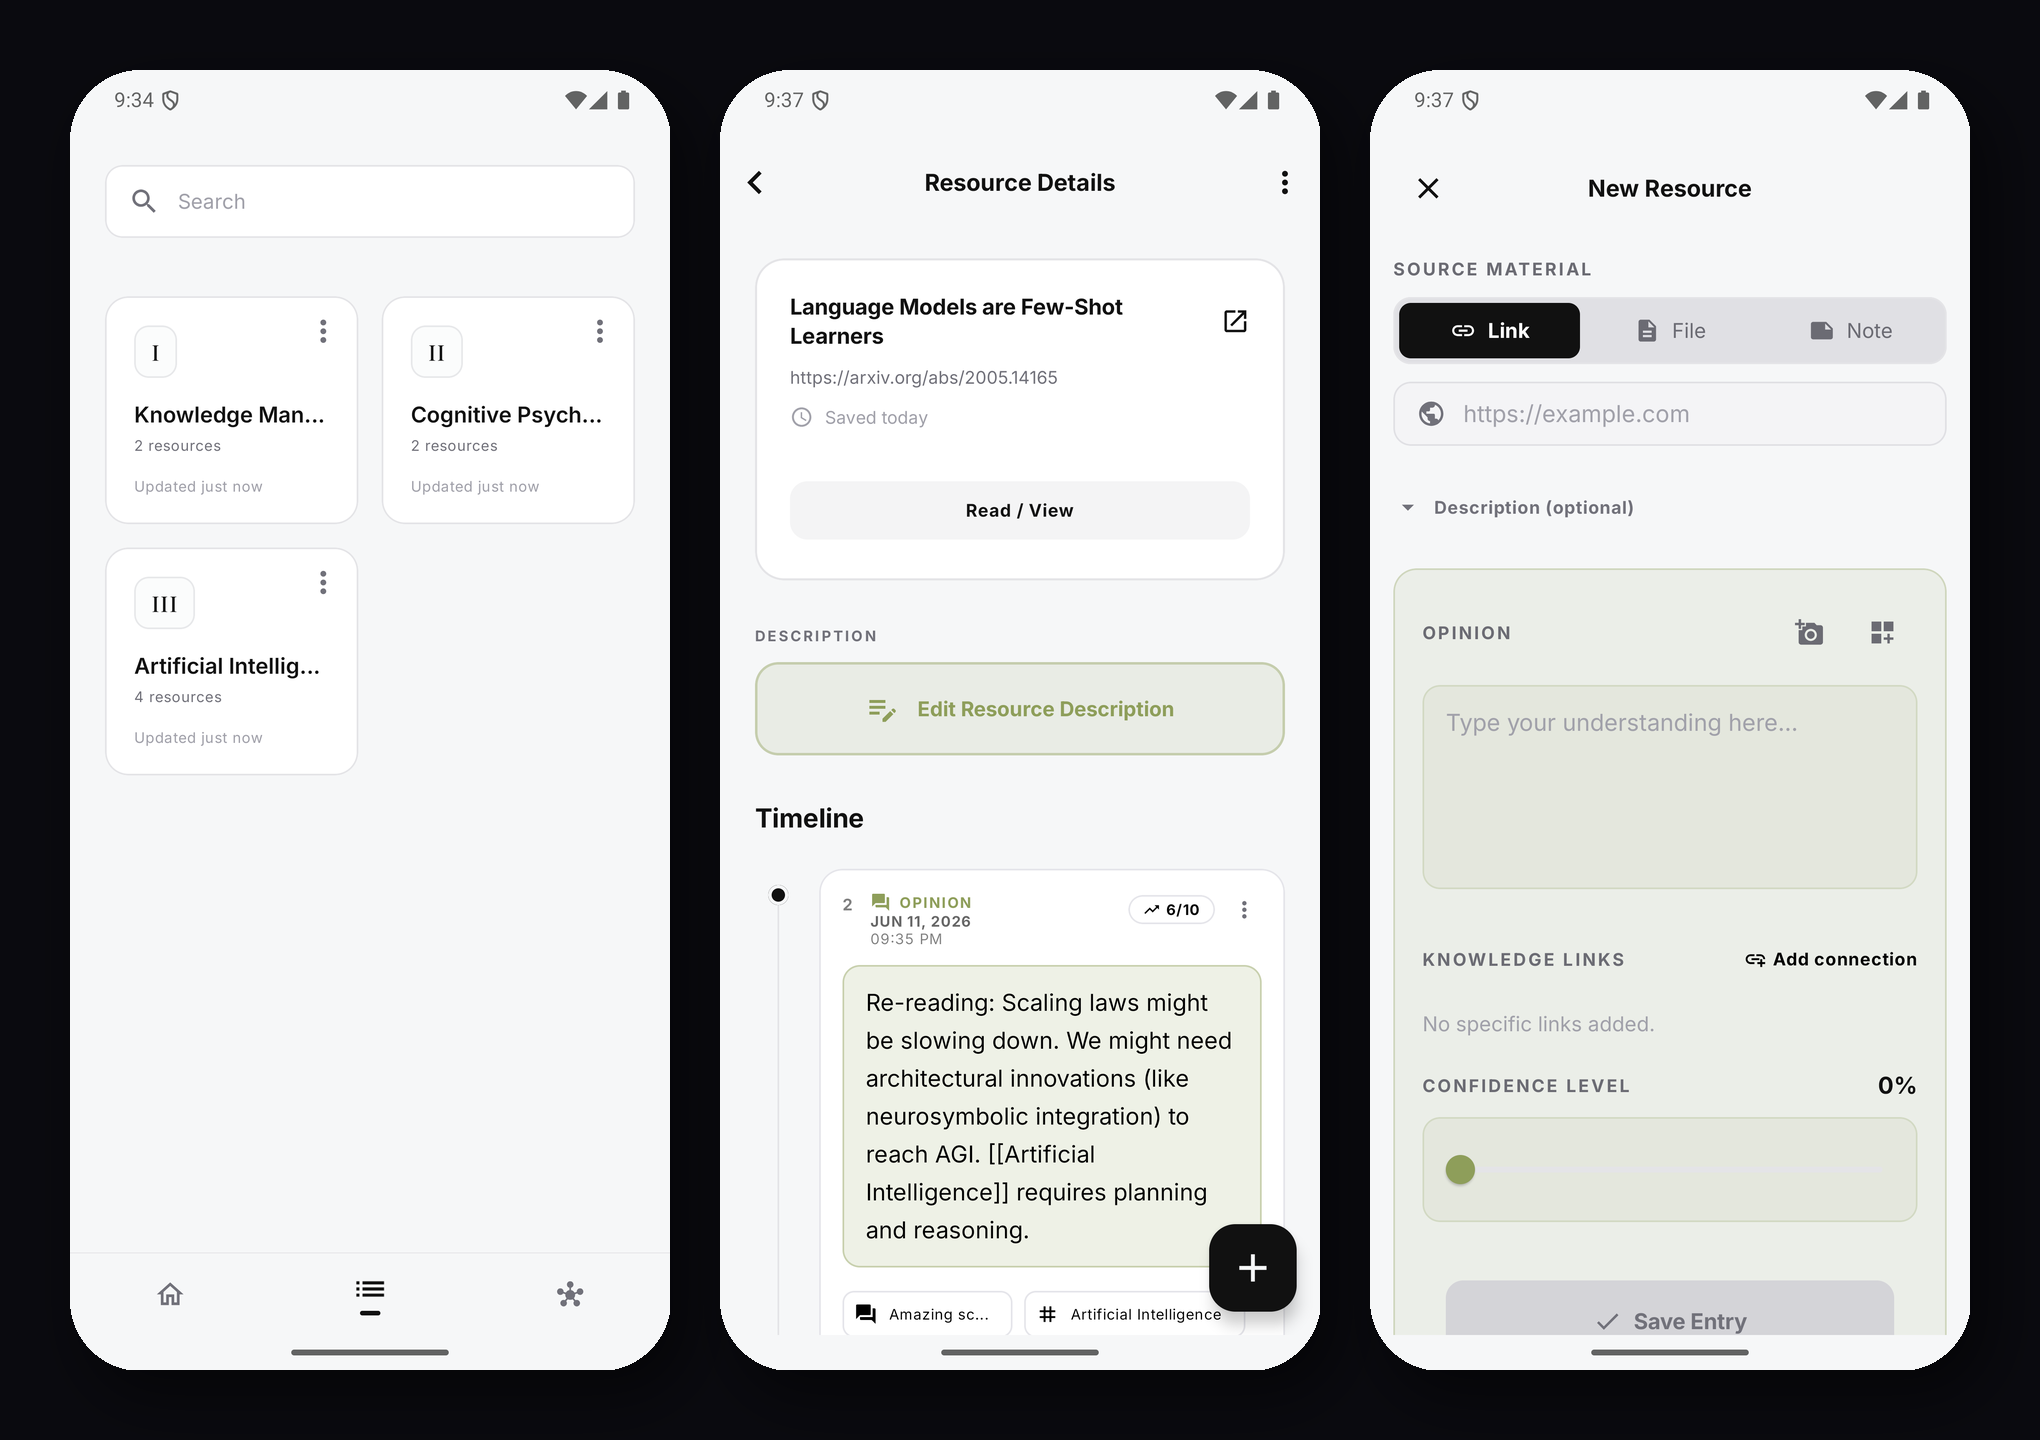
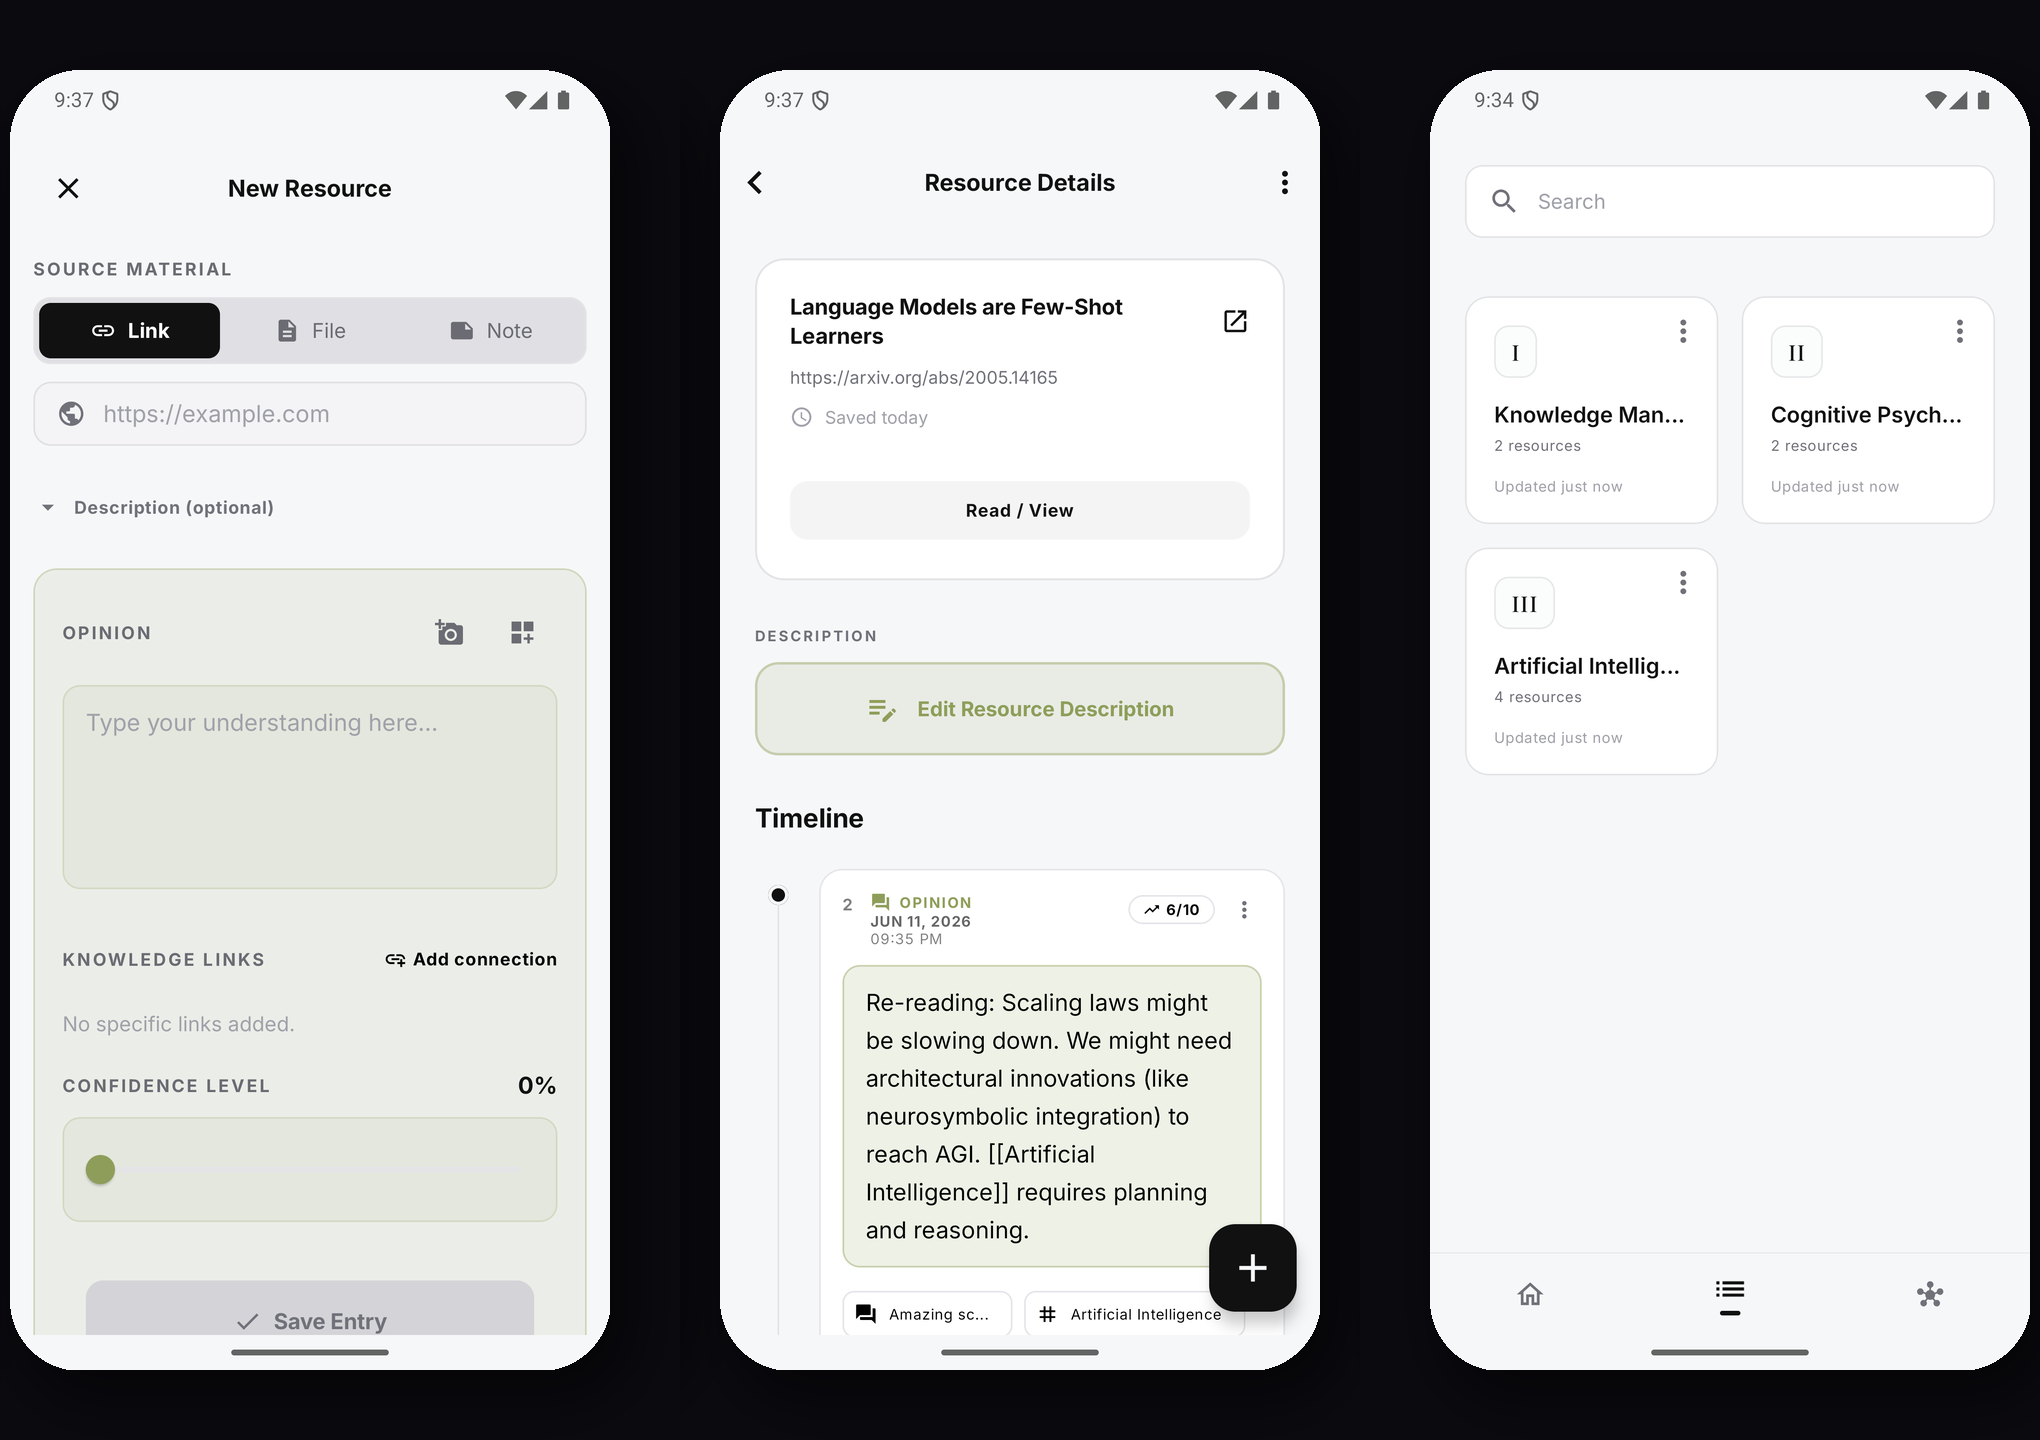
docs: refresh README layout and update hero assets
*   **README.md**:
    *   Centers the header content, including the app logo and badges.
    *   Enlarges the logo and adds a border radius for better visual consistency with the app icon.
    *   Adjusts the height of the F-Droid badge and refines vertical spacing between sections.
*   **Assets**: Updates `feature_strip.png` infographic.

diff --git a/README.md b/README.md
@@ -1,4 +1,8 @@
-# <img src="androidApp/src/main/res/drawable/app_logo.png" width="40" height="40" valign="middle" alt="Relatrix Logo" /> 𝗥𝗲𝗹𝗮𝘁𝗿𝗶𝘅
+<div align="center">
+
+<img src="androidApp/src/main/res/drawable/app_logo.png" width="140" height="140" alt="Relatrix Logo" style="border-radius: 20%; margin-bottom: 20px;" />
+
+# 𝗥𝗲𝗹𝗮𝘁𝗿𝗶𝘅
 
 **An active knowledge‑management and multi‑modal note‑taking platform for deep thinkers.**
 
@@ -7,9 +11,10 @@
 <br/>
 
 <a href="https://f-droid.org/packages/com.saadibra.graymatter">
-  <img src="https://fdroid.gitlab.io/artwork/badge/get-it-on.png" alt="Get it on F-Droid" height="70">
+  <img src="https://fdroid.gitlab.io/artwork/badge/get-it-on.png" alt="Get it on F-Droid" height="60">
 </a>
 
+<br/>
 <br/>
 
 [![Platform](https://img.shields.io/badge/Platform-Android-3DDC84?style=for-the-badge&logo=android&logoColor=white)](https://developer.android.com)
@@ -18,6 +23,8 @@
 [![Database](https://img.shields.io/badge/Database-SQLDelight%20%2B%20SQLCipher-003B57?style=for-the-badge&logo=sqlite&logoColor=white)](https://github.com/cashapp/sqldelight)
 [![Offline](https://img.shields.io/badge/Data-100%25_Offline_First-2ECC71?style=for-the-badge)](/)
 [![iOS](https://img.shields.io/badge/iOS-Coming_Soon-999999?style=for-the-badge&logo=apple&logoColor=white)](/)
+
+</div>
 
 <br/>
 
